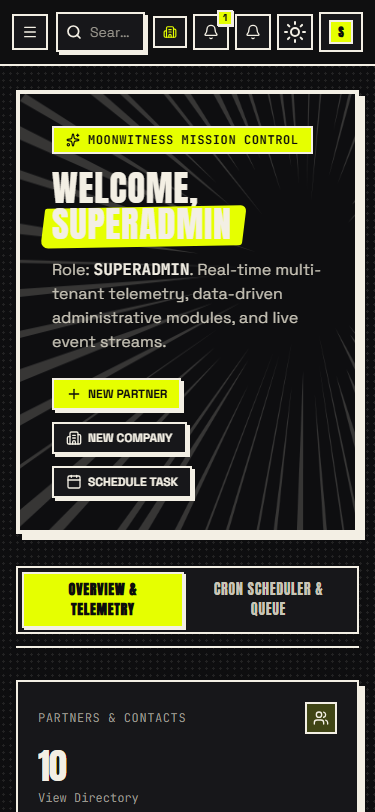
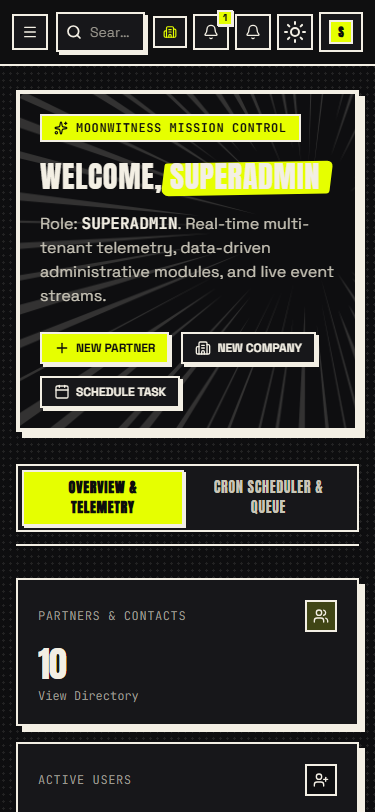
fix(board): prevent mobile dashboard hero overlap

diff --git a/apps/board/src/pages/dashboard-page.tsx b/apps/board/src/pages/dashboard-page.tsx
@@ -278,13 +278,13 @@ export function DashboardPage() {
   return (
     <div className="space-y-8">
       {/* Hero Welcome Banner with Speedlines */}
-      <div className="relative overflow-hidden border-4 border-ink bg-paper p-8 lg:p-12 shadow-ink-lg">
+      <div className="relative overflow-hidden border-4 border-ink bg-paper p-5 sm:p-8 lg:p-12 shadow-ink-lg">
         <SpeedLines className="opacity-20" origin={[0.85, 0.4]} inner={0.15} count={60} />
         <div className="relative max-w-2xl space-y-4">
           <div className="inline-flex items-center gap-2 border-2 border-ink bg-lime px-3 py-1 font-mono text-xs font-bold uppercase tracking-wider text-on-accent">
             <Sparkles className="size-3.5" /> MoonWitness Mission Control
           </div>
-          <h1 className="ink-title text-4xl sm:text-6xl">
+          <h1 className="ink-title text-3xl leading-tight sm:text-6xl sm:leading-none">
             Welcome, <span className="marker">{user?.login}</span>!
           </h1>
           <p className="text-base sm:text-lg text-ink-soft">

diff --git a/docs/roadmap/evidence/M10.02.md b/docs/roadmap/evidence/M10.02.md
@@ -14,7 +14,7 @@
 - All audited routes rendered meaningful content. No browser page errors or application runtime errors were reported; the only console info was Vite connection and React DevTools guidance.
 - No horizontal document overflow was observed at 1440px or 375px on audited routes.
 - Desktop profile/settings controls and seeded directory records are present. Seed coverage visibly includes 10 partners and 2 users.
-- Mobile dashboard hero is visually too tall and its highlighted title wraps into a collision/overlap. The compact header also has densely packed icon controls. This is a confirmed visual UX issue to address in a focused UI task; it is not treated as a release-blocking crash or broken navigation in this audit.
+- The mobile dashboard hero title initially collided on its wrapped line. The Board heading now uses mobile-specific sizing/leading and the hero uses tighter small-screen padding; a fresh 375px browser capture confirms the title no longer overlaps and the document remains within the viewport. Header icon controls remain visually dense and should be simplified in a separate navigation pass. The dashboard axe-core run reported zero violations (the full route/browser matrix is still pending).
 
 ## Evidence
 
